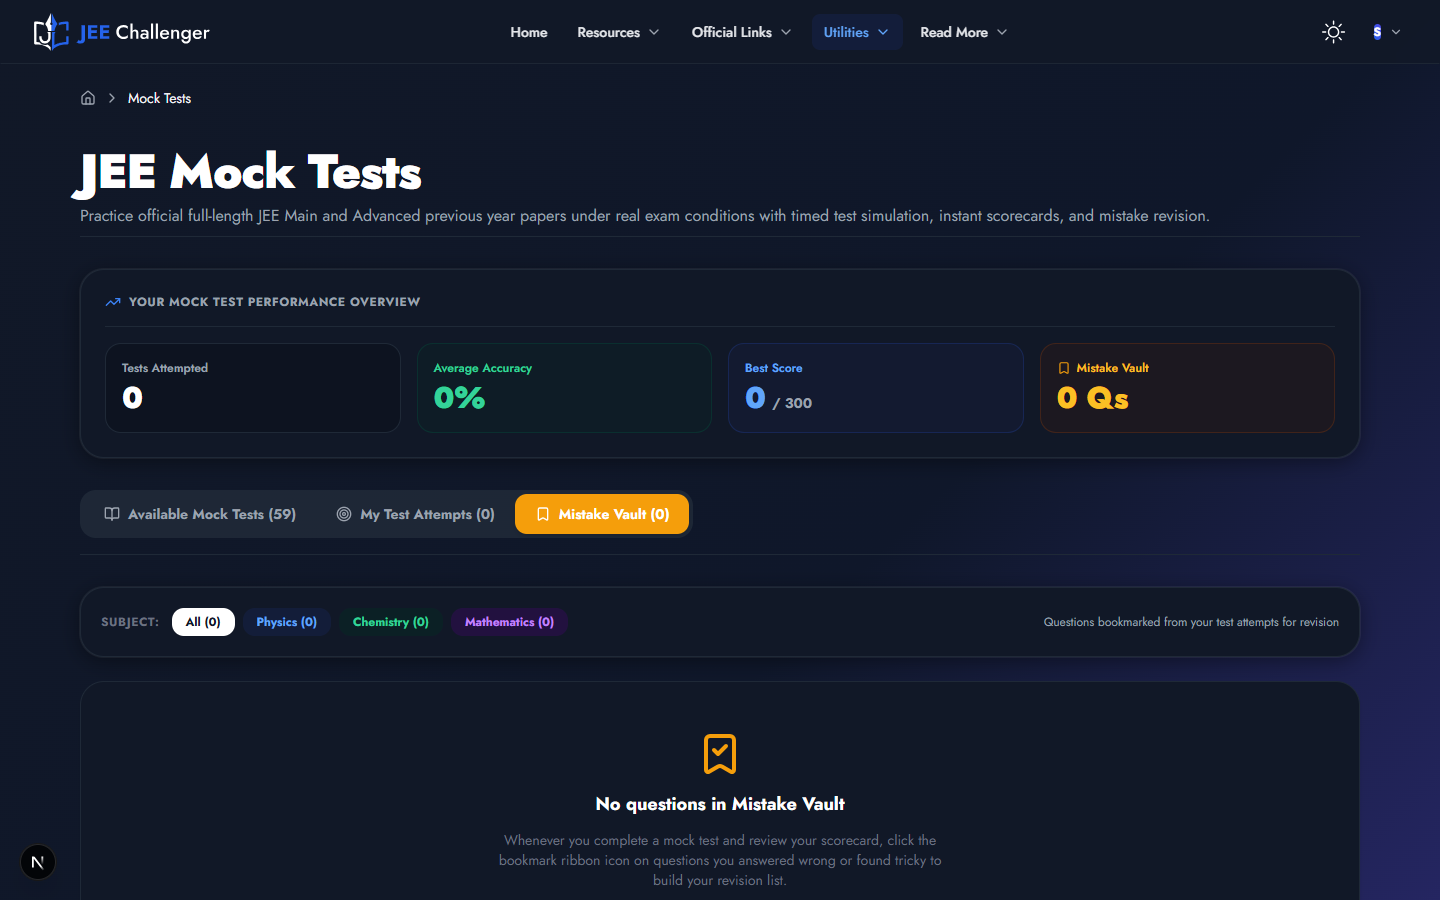
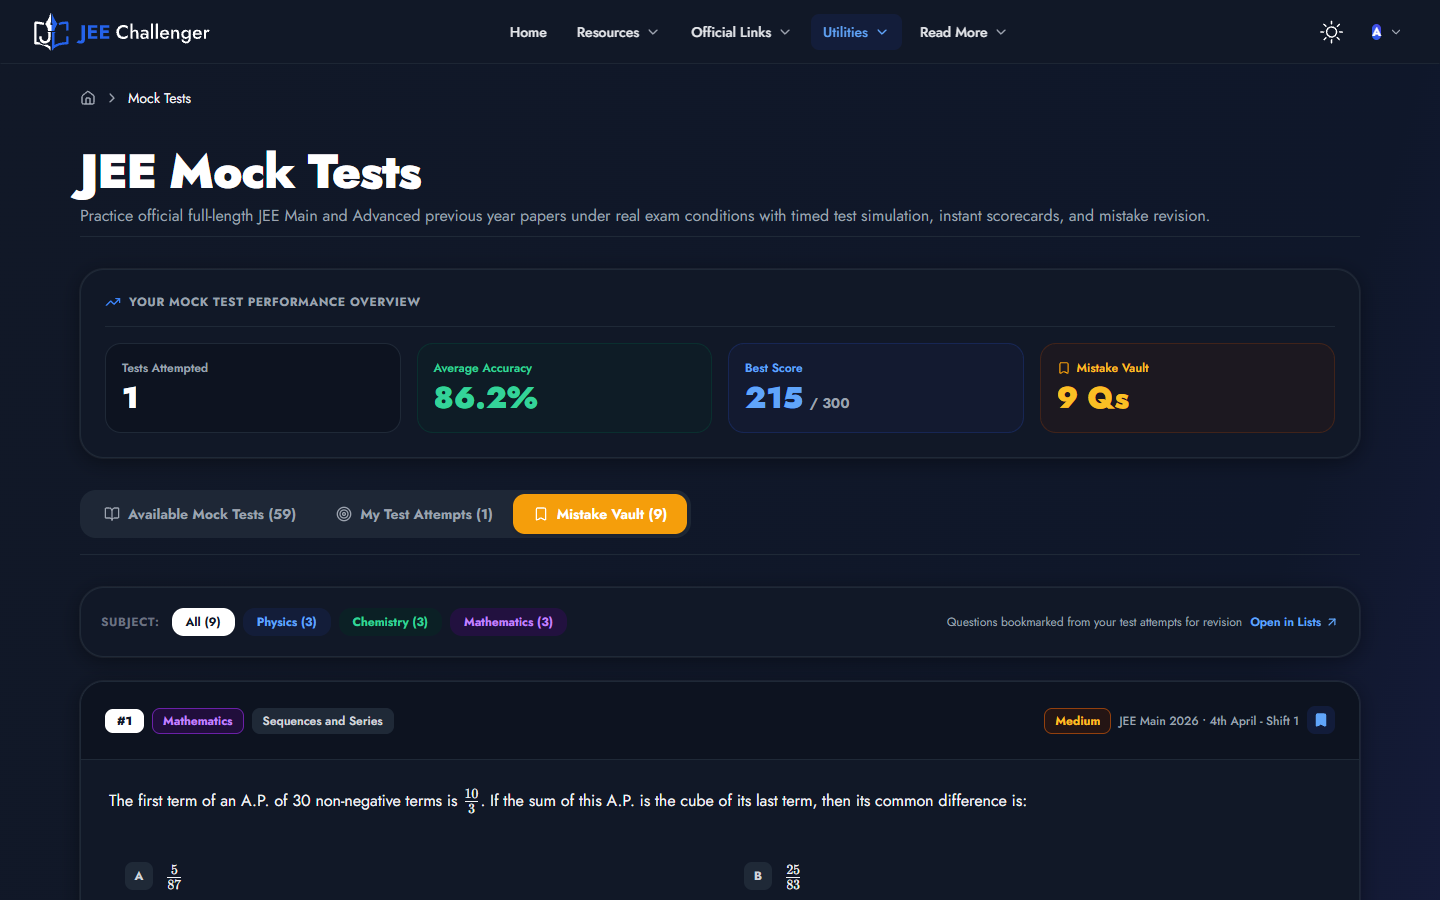
docs(cbt): anonymize specification screenshots and prune checklist
- Replace all 14 CBT specification screenshots with authentic production simulations

- Mask all personal identity references with standardized dummy candidate (Aarav Sharma)

- Suppress local development overlay and Next.js indicator artifacts from capture pipeline

- Simulate realistic mid-exam timers, answered palette states, and non-zero analytics

- Remove redundant Section 15 pre-flight checklist from master specification

diff --git a/docs/cbt-master-spec.md b/docs/cbt-master-spec.md
@@ -34,7 +34,6 @@
 12. [Post-Exam Scorecard & Review Experience](#12-post-exam-scorecard--review-experience)
 13. [Exhaustive Edge Cases & Failure Mitigation Matrix](#13-exhaustive-edge-cases--failure-mitigation-matrix)
 14. [Upstream Data Ingestion Pipeline & Admin Staging Lifecycle](#14-upstream-data-ingestion-pipeline--admin-staging-lifecycle)
-15. [Pre-Flight Verification & Acceptance Checklist](#15-pre-flight-verification--acceptance-checklist)
 
 ---
 
@@ -841,15 +840,3 @@ To eliminate manual transcription of complex mathematical equations and ensure 1
    * Admins can adjust bounding boxes, upload replacement diagrams, fine-tune LaTeX expressions, and confirm answer keys.
    * Clicking **"Approve"** atomically migrates the document from the `staging` collection to the `production` collection. Once approved, the Go microservice immediately serves the paper to the CBT exam engine.
 
----
-
-## 15. Pre-Flight Verification & Acceptance Checklist
-
-Before any production deployment of the CBT Engine:
-- [ ] **NTA Palette Test**: Verify that clicking directly on Question 15 after choosing option B resets option B without saving.
-- [ ] **Section B Rule Test**: Submit 7 answers in Section B; verify that the judge only marks the first 5 in ascending numerical order.
-- [ ] **Keyboard Lock Test**: Confirm that typing numbers via physical keyboard into numerical fields produces zero input.
-- [ ] **Offline Disconnection Test**: Turn off Wi-Fi, answer 5 questions, turn on Wi-Fi; confirm all 5 questions sync to Redis with exact timestamps.
-- [ ] **Concurrent Device Test**: Open test on Device A, open on Device B, click transfer; confirm Device A is instantly locked with the 409 overlay.
-- [ ] **Abandonment Auto-Submit Test**: Start test, close browser, simulate arrival of `expires_at`; verify Cloudflare Worker or defensive lazy evaluation creates `test_submissions` document in MongoDB Atlas with status `AUTO_SUBMITTED_TIME_EXPIRED`.
-- [ ] **1366x768 Viewport Test**: Verify bottom action bar (`Save & Next`, `Clear Response`) is permanently visible without page scrolling.
